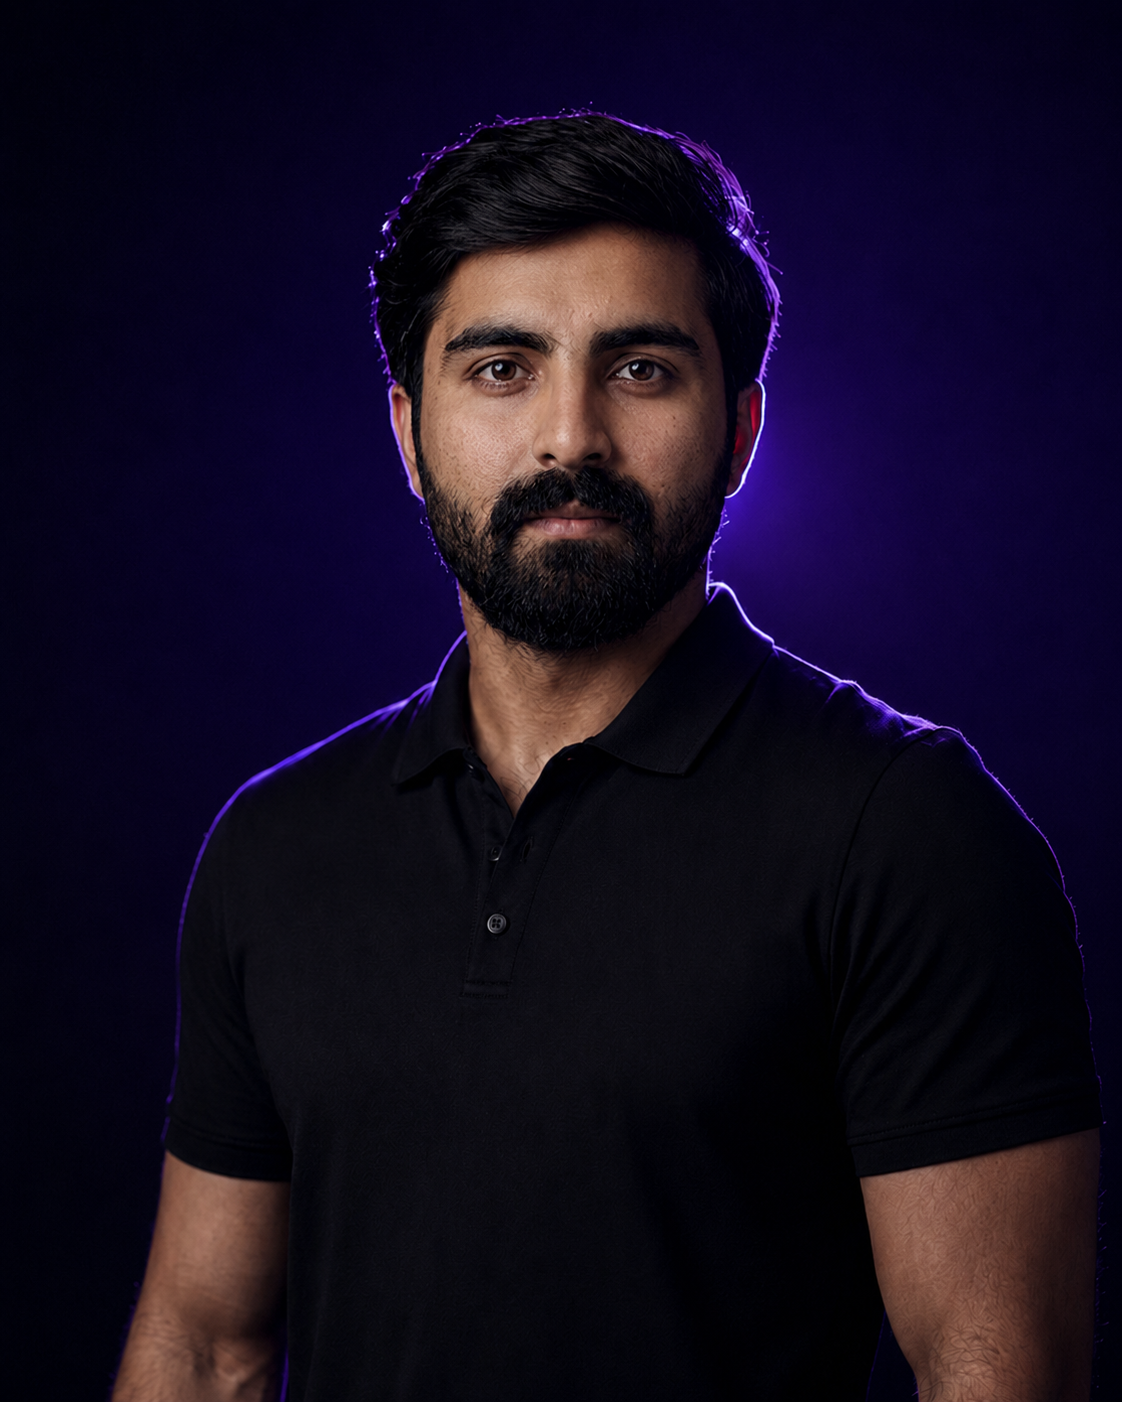
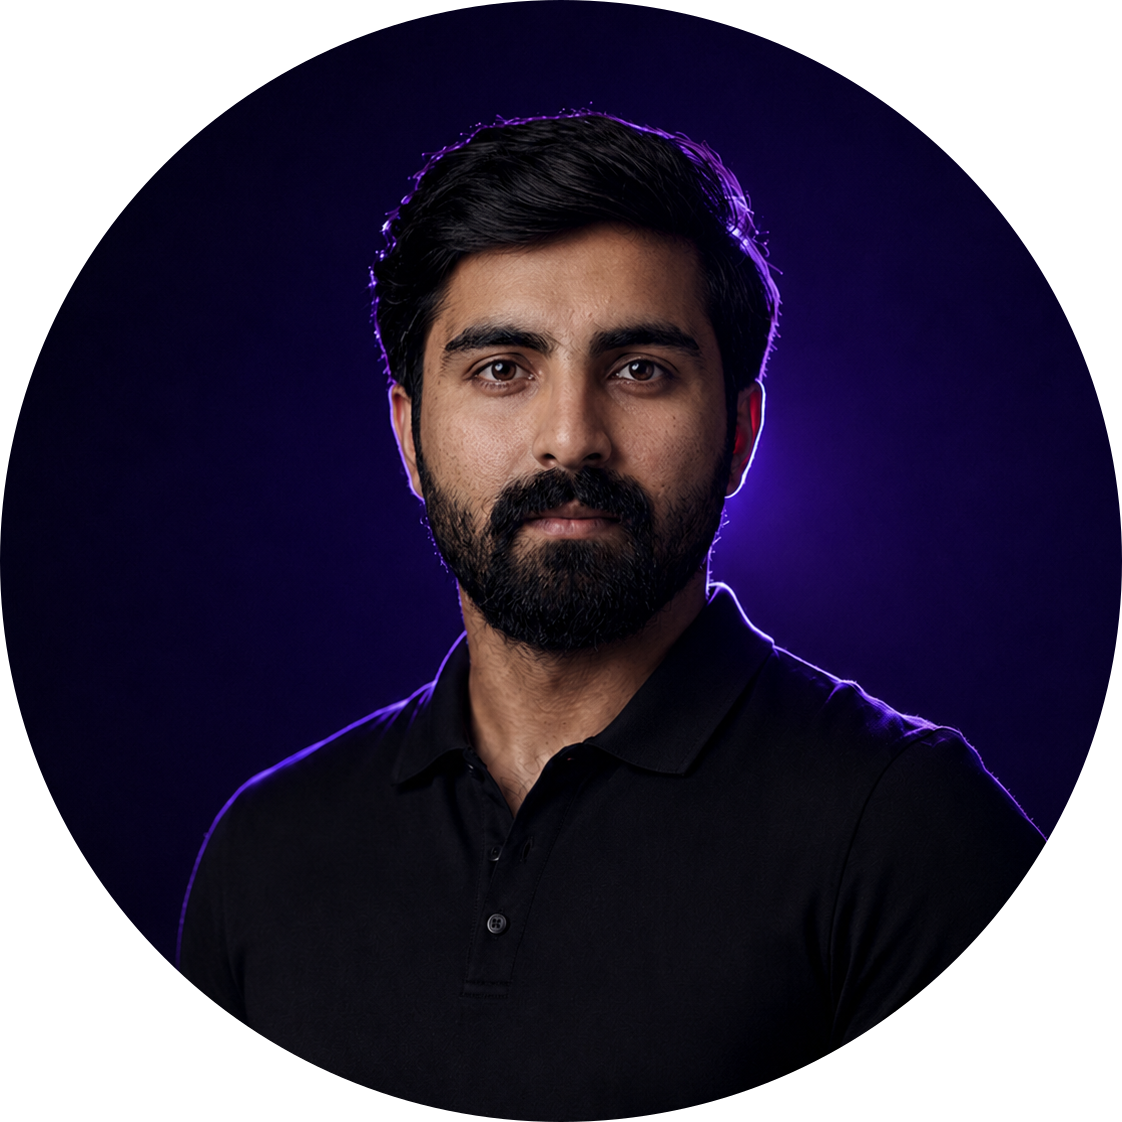
feat: implement rate limiting and input sanitization in contact form API

diff --git a/app/api/contact/route.ts b/app/api/contact/route.ts
@@ -4,6 +4,44 @@ const APPS_SCRIPT_URL =
   process.env.GOOGLE_APPS_SCRIPT_URL ??
   "https://script.google.com/macros/s/AKfycbwqAg9-ZjYcXYD7u-eVf3l67_KTjhaZ-Kiiy6mDZ1YRmSVXgemAvWBZJrkkGolB9_LJzg/exec";
 
+// ── Rate limiting ─────────────────────────────────────────────────────────────
+// In-memory store keyed by IP. Resets per cold start (acceptable for a portfolio
+// contact form). Prevents rapid-fire spam within a single function instance.
+const rateLimitMap = new Map<string, { count: number; resetAt: number }>();
+const RATE_LIMIT = 5;        // max submissions
+const RATE_WINDOW_MS = 3600_000; // per hour
+
+function isRateLimited(ip: string): boolean {
+  const now = Date.now();
+  const entry = rateLimitMap.get(ip);
+  if (!entry || now > entry.resetAt) {
+    rateLimitMap.set(ip, { count: 1, resetAt: now + RATE_WINDOW_MS });
+    return false;
+  }
+  if (entry.count >= RATE_LIMIT) return true;
+  entry.count += 1;
+  return false;
+}
+
+// ── Input helpers ─────────────────────────────────────────────────────────────
+// Strip HTML tags to prevent XSS in the email notification
+function escapeHtml(str: string): string {
+  return str
+    .replace(/&/g, "&amp;")
+    .replace(/</g, "&lt;")
+    .replace(/>/g, "&gt;")
+    .replace(/"/g, "&quot;")
+    .replace(/'/g, "&#x27;");
+}
+
+// Truncate to avoid oversized payloads
+function sanitize(value: unknown, maxLen = 500): string {
+  if (typeof value !== "string") return "";
+  return escapeHtml(value.trim().slice(0, maxLen));
+}
+
+const EMAIL_RE = /^[^\s@]+@[^\s@]+\.[^\s@]+$/;
+
 async function postToSheet(payload: Record<string, string>) {
   const body = JSON.stringify(payload);
   const headers = { "Content-Type": "application/json" };
@@ -36,27 +74,64 @@ async function postToSheet(payload: Record<string, string>) {
 
 export async function POST(req: NextRequest) {
   try {
-    const body = await req.json();
-    const { name, email, country, projectType, deadline, referral, message, sourcePath } = body;
+    // ── Rate limiting ───────────────────────────────────────────────────────
+    const ip =
+      req.headers.get("x-forwarded-for")?.split(",")[0]?.trim() ??
+      req.headers.get("x-real-ip") ??
+      "unknown";
+
+    if (isRateLimited(ip)) {
+      return NextResponse.json(
+        { error: "Too many requests. Please try again later." },
+        { status: 429 }
+      );
+    }
+
+    // ── Parse & sanitize input ──────────────────────────────────────────────
+    let raw: Record<string, unknown>;
+    try {
+      raw = await req.json();
+    } catch {
+      return NextResponse.json({ error: "Invalid request body." }, { status: 400 });
+    }
+
+    // Honeypot: bots fill hidden fields, humans don't
+    if (raw.honeypot) {
+      // Return 200 to fool bots, but don't process
+      return NextResponse.json({ ok: true });
+    }
+
+    const name = sanitize(raw.name, 100);
+    const email = sanitize(raw.email, 200);
+    const country = sanitize(raw.country, 100);
+    const projectType = sanitize(raw.projectType, 100);
+    const deadline = sanitize(raw.deadline, 100);
+    const referral = sanitize(raw.referral, 100);
+    const message = sanitize(raw.message, 2000);
+    const sourcePath = sanitize(raw.sourcePath, 200);
 
     if (!name || !email) {
       return NextResponse.json({ error: "Name and email are required." }, { status: 400 });
     }
 
-    const userAgent = req.headers.get("user-agent") ?? "";
+    if (!EMAIL_RE.test(email)) {
+      return NextResponse.json({ error: "Invalid email address." }, { status: 400 });
+    }
+
+    const userAgent = req.headers.get("user-agent")?.slice(0, 300) ?? "";
 
     const payload: Record<string, string> = {
       Timestamp: new Date().toISOString(),
       Name: name,
       Email: email,
-      Country: country ?? "",
-      "Project Type": projectType ?? "",
-      Deadline: deadline ?? "",
-      "Referral Source": referral ?? "",
-      Message: message ?? "",
+      Country: country,
+      "Project Type": projectType,
+      Deadline: deadline,
+      "Referral Source": referral,
+      Message: message,
       "User Agent": userAgent,
       Form: "Contact",
-      "Source Path": sourcePath ?? "",
+      "Source Path": sourcePath,
     };
 
     // ── Google Sheet ──────────────────────────────────────────────────────────
@@ -77,6 +152,7 @@ export async function POST(req: NextRequest) {
           from: fromEmail,
           to: toEmail,
           subject: `New lead from ${name}`,
+          // All values are already HTML-escaped by sanitize()
           html: `
             <div style="font-family:sans-serif;max-width:600px;margin:0 auto">
               <h2 style="color:#7c3aed">New Contact Form Submission</h2>

diff --git a/next.config.ts b/next.config.ts
@@ -1,13 +1,98 @@
 import type { NextConfig } from "next";
 
+const securityHeaders = [
+  // Prevent clickjacking — no one should iframe this site
+  { key: "X-Frame-Options", value: "DENY" },
+  // Block MIME-type sniffing
+  { key: "X-Content-Type-Options", value: "nosniff" },
+  // Force HTTPS for 1 year once visited (includeSubDomains so subdomains are also covered)
+  {
+    key: "Strict-Transport-Security",
+    value: "max-age=31536000; includeSubDomains; preload",
+  },
+  // Leak origin only to same-origin; send only origin (no path) to cross-origin HTTPS
+  { key: "Referrer-Policy", value: "strict-origin-when-cross-origin" },
+  // Restrict browser feature access
+  {
+    key: "Permissions-Policy",
+    value:
+      "camera=(), microphone=(), geolocation=(), payment=(), usb=(), interest-cohort=()",
+  },
+  // Cross-origin resource policy — don't let other origins embed our assets
+  { key: "Cross-Origin-Resource-Policy", value: "same-origin" },
+  // Isolate the browsing context from cross-origin openers
+  { key: "Cross-Origin-Opener-Policy", value: "same-origin-allow-popups" },
+  // Content Security Policy
+  // - Scripts: self + Vercel, PostHog, LinkedIn, Adobe Fonts, and Google Tag
+  // - Styles: self + Google Fonts + unsafe-inline (required by Framer Motion / Tailwind)
+  // - Fonts: self + Google Fonts CDN
+  // - Connect: self + analytics endpoints
+  // - Images: self + data URIs + Unsplash
+  {
+    key: "Content-Security-Policy",
+    value: [
+      "default-src 'self'",
+      "script-src 'self' 'unsafe-inline' 'unsafe-eval' https://vercel.com https://*.vercel-insights.com https://us.i.posthog.com https://snap.licdn.com https://use.typekit.net https://www.googletagmanager.com",
+      "style-src 'self' 'unsafe-inline' https://fonts.googleapis.com https://use.typekit.net",
+      "font-src 'self' https://fonts.gstatic.com https://use.typekit.net data:",
+      "img-src 'self' data: blob: https://images.unsplash.com https://*.posthog.com",
+      "connect-src 'self' https://us.i.posthog.com https://*.vercel-insights.com https://vitals.vercel-insights.com https://snap.licdn.com https://script.google.com https://*.googleapis.com",
+      "frame-ancestors 'none'",
+      "base-uri 'self'",
+      "form-action 'self'",
+      "upgrade-insecure-requests",
+    ].join("; "),
+  },
+];
+
 const nextConfig: NextConfig = {
+  // Don't advertise that this is Next.js
+  poweredByHeader: false,
+
+  // Compress responses with gzip
+  compress: true,
+
   images: {
+    // Serve WebP and AVIF for modern browsers
+    formats: ["image/avif", "image/webp"],
+    // Cache optimized images for 30 days
+    minimumCacheTTL: 2592000,
     remotePatterns: [
       {
         protocol: "https",
         hostname: "images.unsplash.com",
       },
     ],
+  },
+
+  async headers() {
+    return [
+      {
+        // Apply security headers to all routes
+        source: "/(.*)",
+        headers: securityHeaders,
+      },
+      {
+        // Aggressive cache for versioned static assets (JS/CSS chunks have content hashes)
+        source: "/_next/static/(.*)",
+        headers: [
+          {
+            key: "Cache-Control",
+            value: "public, max-age=31536000, immutable",
+          },
+        ],
+      },
+      {
+        // Images in /public get a 7-day cache
+        source: "/(.*\\.(?:png|jpg|jpeg|webp|avif|svg|gif|ico))",
+        headers: [
+          {
+            key: "Cache-Control",
+            value: "public, max-age=604800, stale-while-revalidate=86400",
+          },
+        ],
+      },
+    ];
   },
 };
 

diff --git a/components/ThirdPartyScripts.tsx b/components/ThirdPartyScripts.tsx
@@ -10,11 +10,11 @@ export function ThirdPartyScripts() {
         <Script
           id="adobe-fonts"
           src={`https://use.typekit.net/${adobeFontsKitId}.js`}
-          strategy="afterInteractive"
+          strategy="lazyOnload"
         />
       ) : null}
       {adobeFontsKitId ? (
-        <Script id="adobe-fonts-load" strategy="afterInteractive">
+        <Script id="adobe-fonts-load" strategy="lazyOnload">
           {`try{Typekit.load({async:true});}catch(e){}`}
         </Script>
       ) : null}